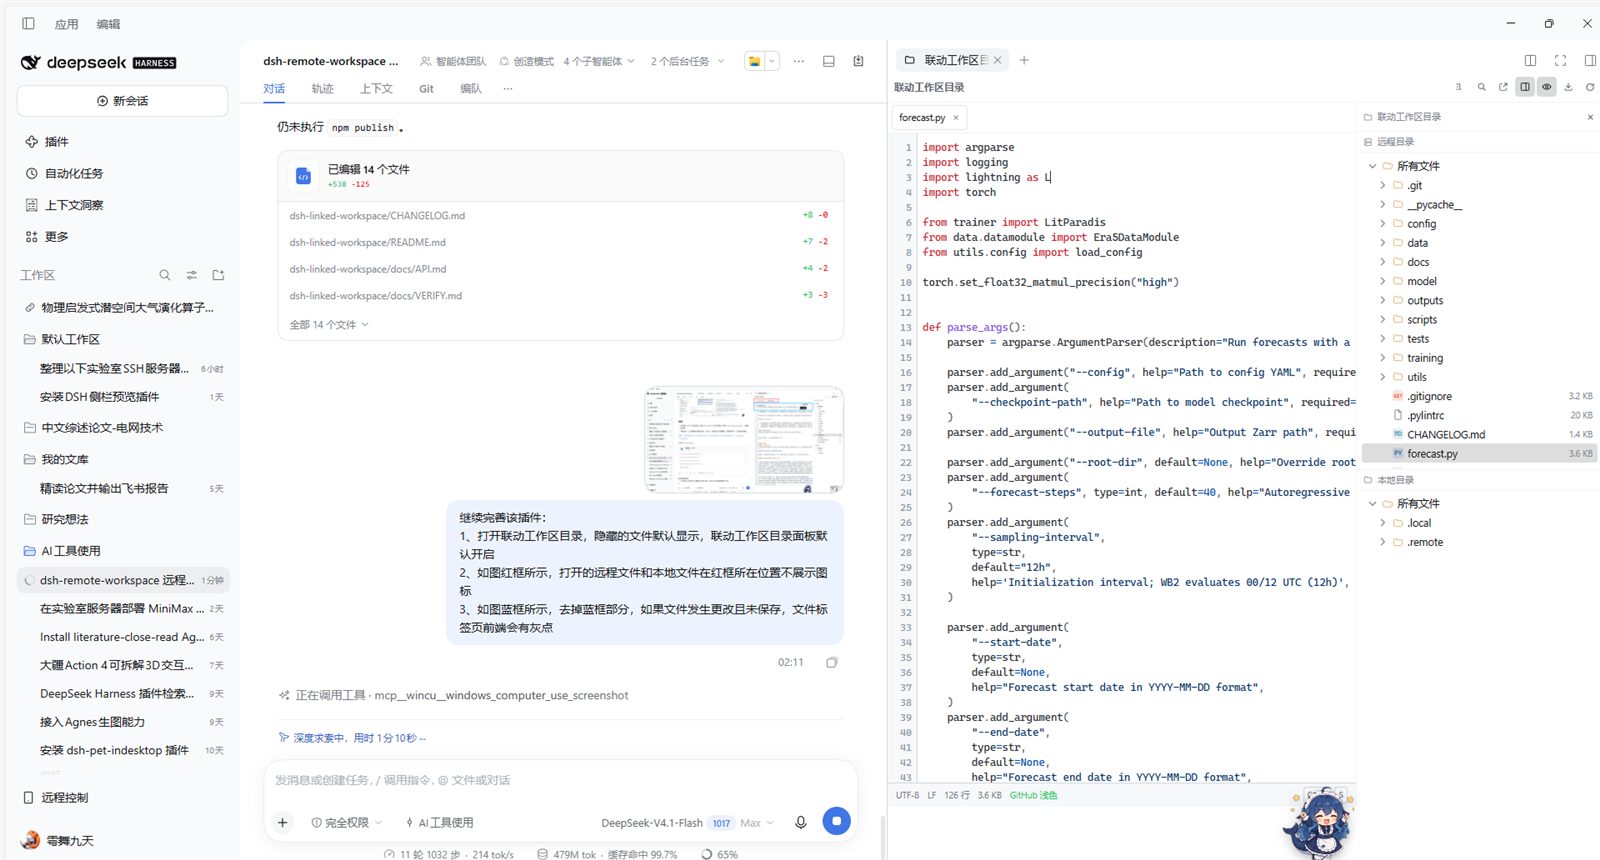
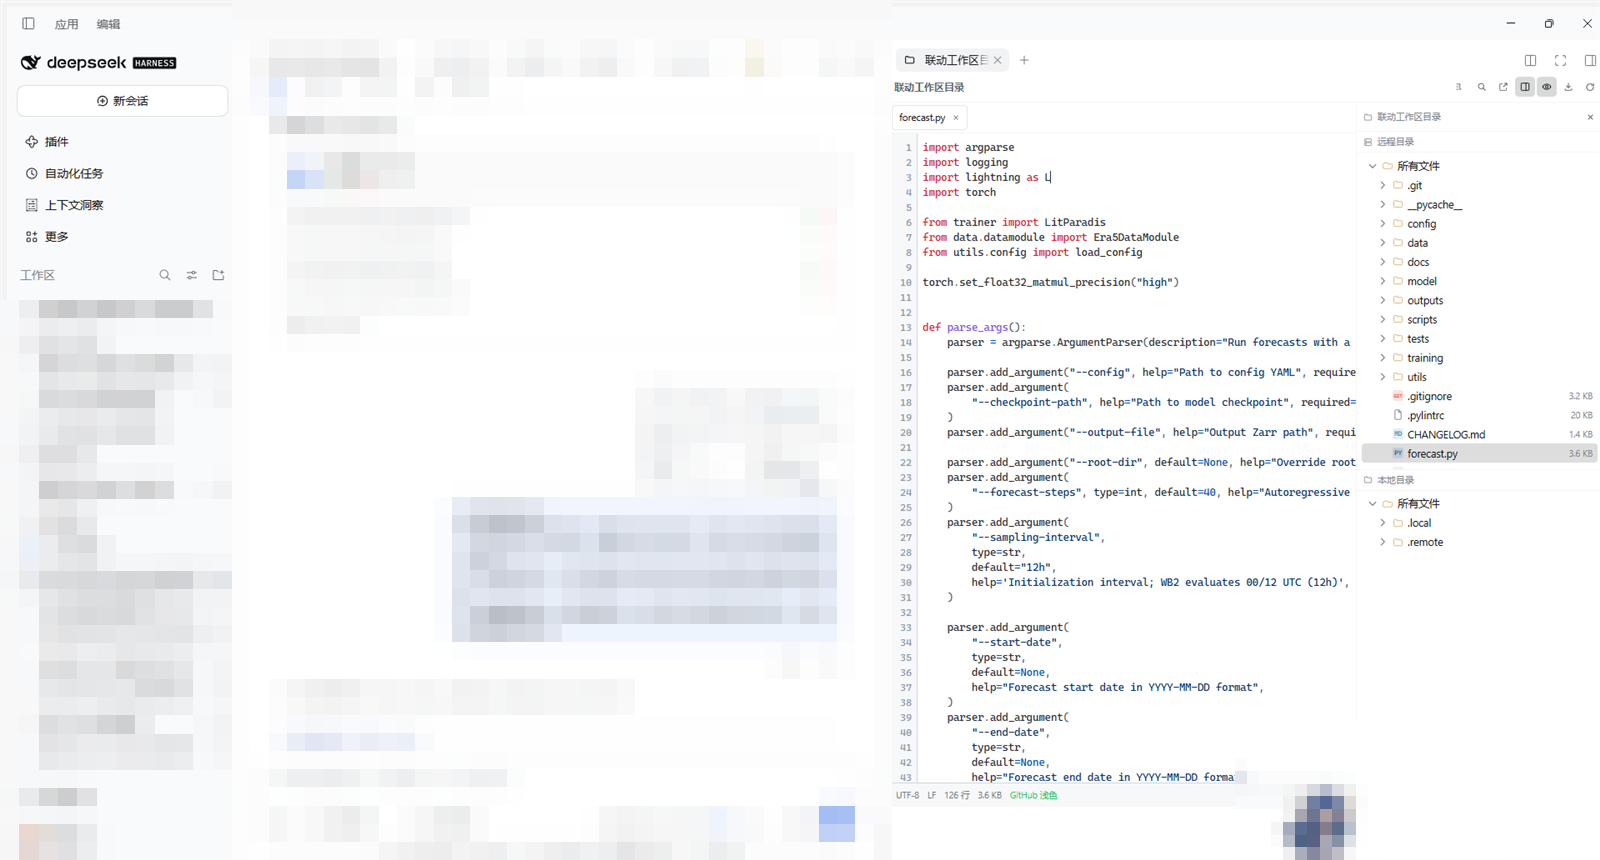
docs: mosaic personal details in interface screenshots

diff --git a/README.en.md b/README.en.md
@@ -90,8 +90,6 @@ The remote side is not modified by mirroring. The `linked_workspace` tool suppor
 
 [![Open a file in the content panel](https://github.com/jiahui-huang1/dsh-linked-workspace/raw/main/docs/screenshots/file-editor.png)](https://github.com/jiahui-huang1/dsh-linked-workspace/blob/main/docs/screenshots/file-editor.png)
 
-[![Read-only remote file with content visible](https://github.com/jiahui-huang1/dsh-linked-workspace/raw/main/docs/screenshots/remote-readonly-view.png)](https://github.com/jiahui-huang1/dsh-linked-workspace/blob/main/docs/screenshots/remote-readonly-view.png)
-
 ## Installation
 
 ```bash
